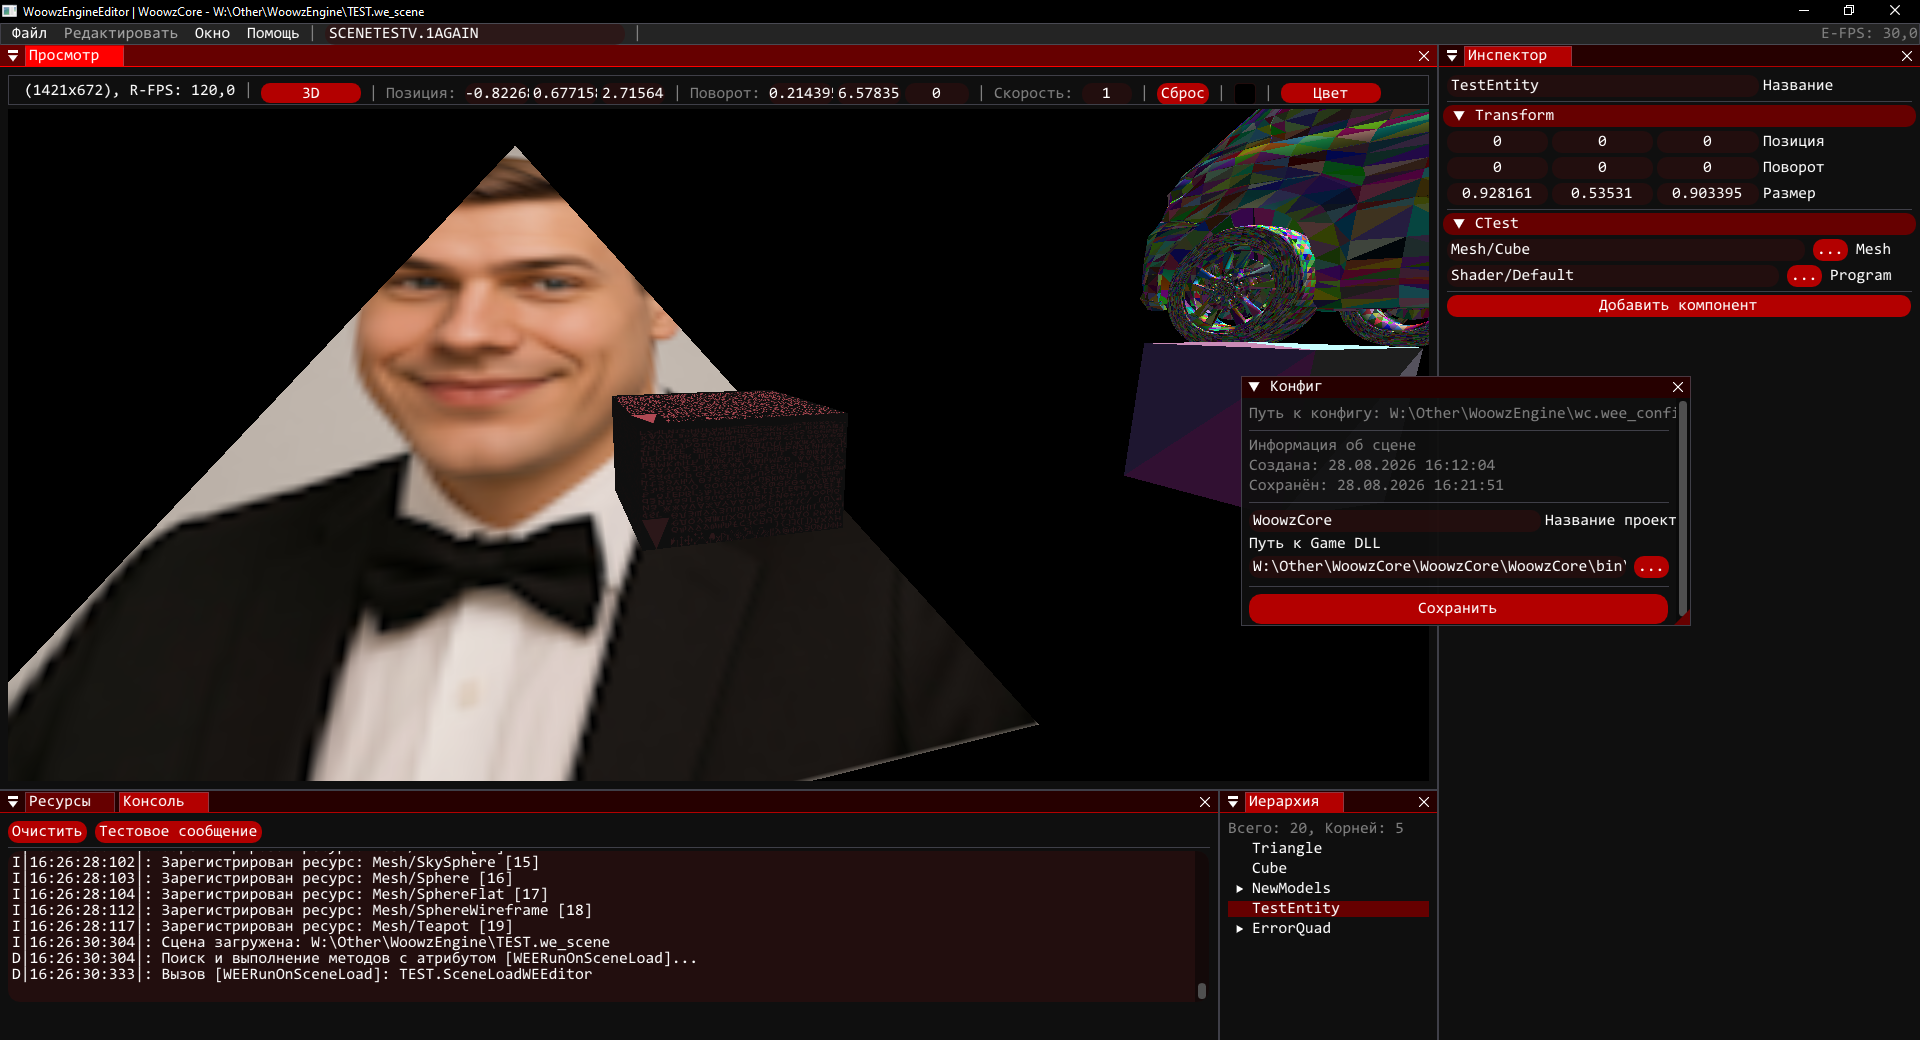
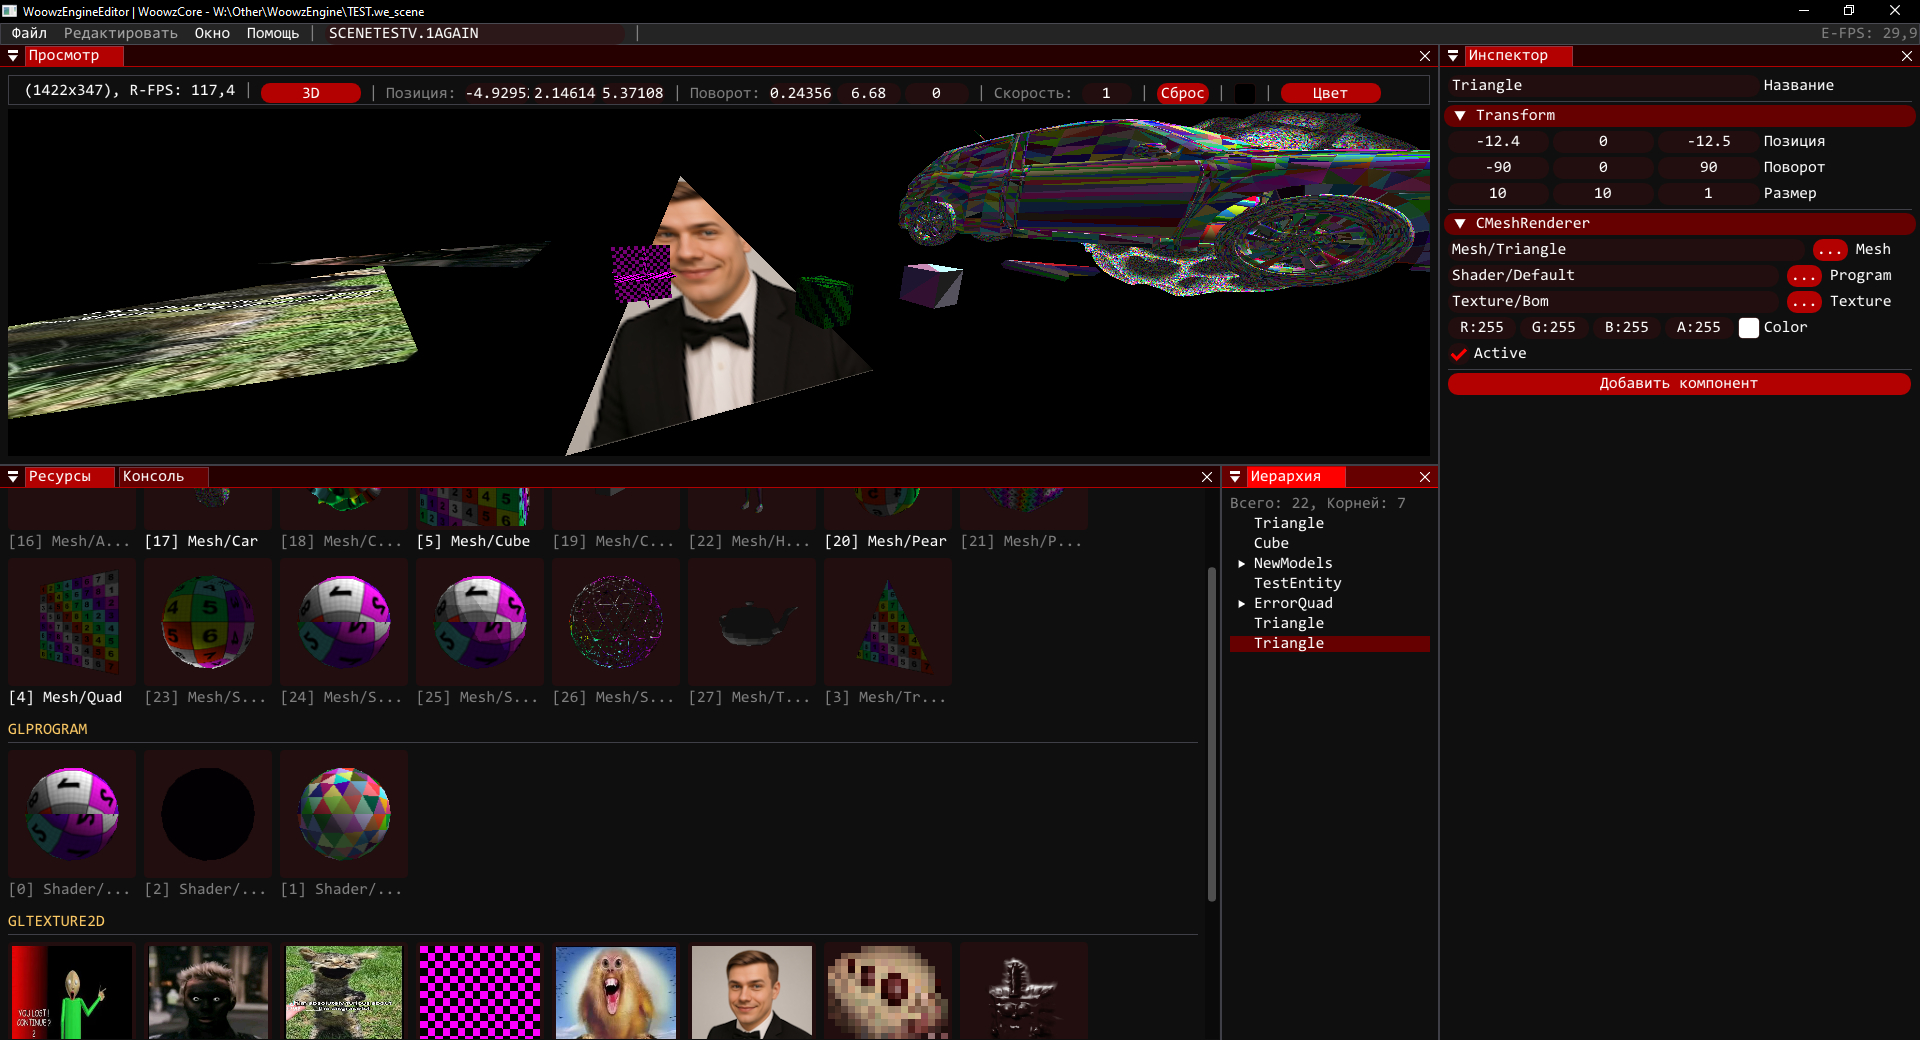
Это имба, рендер иконок 💈

diff --git a/WoowzEngine/WoowzEngineEditor/WEE/Interface/I_Assets.cs b/WoowzEngine/WoowzEngineEditor/WEE/Interface/I_Assets.cs
@@ -1,6 +1,10 @@
 using System.Numerics;
 using System.Runtime.InteropServices;
 using ImGuiNET;
+using WLO;
+using WLO.GPU;
+using WLO.Math;
+using WLO.Render;
 
 namespace WEE_Interface;
 
@@ -29,7 +33,7 @@ public static class I_Assets{
                         const float IconSize = 128;
                         float Padding = ImGui.GetStyle().ItemSpacing.X;
 
-                        float windowVisibleRightEdge = ImGui.GetCursorScreenPos().X + ImGui.GetContentRegionAvail().X;
+                        float WindowVisibleRightEdge = ImGui.GetCursorScreenPos().X + ImGui.GetContentRegionAvail().X;
 
                         for(int i = 0; i < Keys.Count; i++){
                             string Key = Keys[i];
@@ -39,31 +43,35 @@ public static class I_Assets{
 
                                 ImGui.BeginGroup();
                                     Vector2 CursorPosition = ImGui.GetCursorScreenPos();
-                                    ImGui.InvisibleButton("##btn", new Vector2(IconSize, IconSize));
+
+                                    bool IsVisible = ImGui.IsRectVisible(new Vector2(IconSize, IconSize));
+                                    ImGui.InvisibleButton("##button", new Vector2(IconSize, IconSize));
 
                                     if(ImGui.BeginDragDropSource()){
                                         IntPtr Ptr = Marshal.StringToHGlobalAnsi(Key);
                                         ImGui.SetDragDropPayload("ASSET_KEY", Ptr, (uint)Key.Length + 1);
                                         Marshal.FreeHGlobal(Ptr);
-                                        
+                                    
                                         ImGui.Text($"Перетаскивание ассета: {Key}");
                                         ImGui.EndDragDropSource();
                                     }
-                                    
+                                
                                     bool IsHovered = ImGui.IsItemHovered();
-                                    bool IsActive = ImGui.IsItemActive();
-
+                                    bool IsActive  = ImGui.IsItemActive();
+                                    
                                     uint Column = ImGui.GetColorU32(IsActive ? ImGuiCol.HeaderActive : IsHovered ? ImGuiCol.HeaderHovered : ImGuiCol.FrameBg);
 
                                     ImGui.GetWindowDrawList().AddRectFilled(CursorPosition, new Vector2(CursorPosition.X + IconSize, CursorPosition.Y + IconSize), Column, 4.0f);
 
+                                    RenderPreview(Key, CursorPosition, IconSize, IsVisible, ID);
+                                    
                                     WEE.Interface.RenderTextScrolling($"[{ID}] {Key}", IconSize, IsHovered);
                                 ImGui.EndGroup();
 
                                 float CurrentItemRightEdge = ImGui.GetItemRectMax().X;
                                 float NextItemRightEdge = CurrentItemRightEdge + Padding + IconSize;
 
-                                if(i + 1 < Keys.Count && NextItemRightEdge < windowVisibleRightEdge){
+                                if(i + 1 < Keys.Count && NextItemRightEdge < WindowVisibleRightEdge){
                                     ImGui.SameLine();
                                 }
 
@@ -76,5 +84,137 @@ public static class I_Assets{
                 }
             }
         } ImGui.End();
+
+        __PreviewRotation += WEE.Cycle.Render_DT / 2;
+    }
+
+    private static readonly Dictionary<int, GLTexture2D> __PreviewTextures = [];
+    private static          GLView?                      __SharedPreviewView;
+    private static          float                        __PreviewRotation = 0;
+
+    private static void RenderAsset(object Asset){
+        Matrix4F View = Matrix4F.CreateLookAt(new Vector3F(0, 0, 5), new Vector3F(0, 0, 0), new Vector3F(0, 1, 0));
+        Matrix4F Projection = Matrix4F.CreatePerspective(45, 1, 0.1f, 100);
+        
+        WEE.Render.UB_Default.Update(new WEE.Render.UniformBlock_Default {
+            ViewProjection = Projection * View,
+            Time = (float)ImGui.GetTime()
+        });
+        
+        WE.Render.API.Pool.SetUniformBlock(WEE.Render.UB_Default, 0, true);
+
+        Matrix4F CalculateModel(GLMesh Mesh){
+            Bounds Bounds = Mesh.Bounds;
+            
+            Matrix4F Translation = Matrix4F.CreateTranslation(-Bounds.Center);
+
+            float MaxDimension = System.Math.Max(Bounds.Size.X, System.Math.Max(Bounds.Size.Y, Bounds.Size.Z));
+            float ScaleFactor = (MaxDimension > 0.0001f) ? (4 / MaxDimension) : 1;
+            Matrix4F Scale = Matrix4F.CreateScale(new Vector3F(ScaleFactor, ScaleFactor, ScaleFactor));
+
+            Matrix4F Rotation = Matrix4F.CreateRotationY(__PreviewRotation);
+
+            return Rotation * Scale * Translation;
+        }
+        
+        GLTexture2D? TestTexture = WE.Asset.Resolve<GLTexture2D>(WE.Asset.GetID("Texture/Test"));
+        WE.Render.API.Pool.SetTexture2D(TestTexture);
+        
+        if(Asset is GLMesh Mesh){
+            GLProgram? TestProgram = WE.Asset.Resolve<GLProgram>(WE.Asset.GetID("Shader/Default"));
+            if(TestProgram != null){
+                TestProgram.SetUniform(UniformValue.CreateM4F(0, CalculateModel(Mesh)));
+                TestProgram.SetUniform(UniformValue.CreateV3F(1, new Vector3F(1, 1, 1)));
+                WE.Render.API.Draw(Mesh, TestProgram);
+            }
+        }else if(Asset is GLProgram Program){
+            GLMesh? TestMesh = WE.Asset.Resolve<GLMesh>(WE.Asset.GetID("Mesh/Sphere"));
+            if(TestMesh != null){
+                Program.SetUniform(UniformValue.CreateM4F(0, CalculateModel(TestMesh)));
+                Program.SetUniform(UniformValue.CreateV3F(1, new Vector3F(1, 1, 1)));
+                WE.Render.API.Draw(TestMesh, Program);
+            }
+        }
+    }
+    
+    private static void UpdateAssetPreview(object Asset, int ID){
+        const int Size = 128;
+
+        if(!__PreviewTextures.TryGetValue(ID, out GLTexture2D? Texture)){
+            Texture = WE.Render.API.CreateTexture2D(new Vector2I(Size, Size));
+            __PreviewTextures[ID] = Texture;
+        }
+
+        if(__SharedPreviewView == null){
+            __SharedPreviewView = GLView.Create(WE.Render.API, new Vector2I(Size, Size),
+                GLView.LayerConfig.Color(),
+                GLView.LayerConfig.Depth()
+            );
+        }
+
+        GLView OldView = WE.Render.API.Pool.GetView();
+        WE.Render.API.Pool.SetView(__SharedPreviewView);
+
+        __SharedPreviewView.SetTexture(Texture);
+        
+        WE.Render.API.FrameStart();
+        
+            WE.Render.API.Clear(Color4B.Transparent);
+
+            bool OldDepthTest = WE.Render.API.Pool.GetDepthTest();
+            bool OldScissor   = WE.Render.API.Pool.GetScissorTest();
+            bool OldCullFace  = WE.Render.API.Pool.GetCullFace();
+            
+            WE.Render.API.Pool.SetDepthTest(true);
+            WE.Render.API.Pool.SetScissorTest(false);
+            WE.Render.API.Pool.SetCullFace(false);
+            
+            RenderAsset(Asset);
+            
+            WE.Render.API.Pool.SetDepthTest(OldDepthTest);
+            WE.Render.API.Pool.SetScissorTest(OldScissor);
+            WE.Render.API.Pool.SetCullFace(OldCullFace);
+            
+        WE.Render.API.FrameStop();
+        
+        WE.Render.API.Pool.SetView(OldView);
+    }
+    
+    private static void RenderPreview(string Key, Vector2 CursorPosition, float IconSize, bool IsVisible, int ID){
+        if(!IsVisible){ return; }
+
+        ImDrawListPtr DrawList = ImGui.GetWindowDrawList();
+
+        object? Asset = WE.Asset.Resolve<object>(ID);
+
+        const float Margin = 4;
+        Vector2 PMix = CursorPosition + new Vector2(Margin);
+        Vector2 PMax = CursorPosition + new Vector2(IconSize - Margin);
+        
+        if(Asset is GLTexture2D Texture){
+            DrawList.AddImage(
+                (IntPtr)Texture.ID,
+                PMix,
+                PMax,
+                new Vector2(0, 1),
+                new Vector2(1, 0)
+            );
+        }else if(Asset is GLMesh || Asset is GLProgram){
+            UpdateAssetPreview(Asset, ID);
+
+            if(__PreviewTextures.TryGetValue(ID, out GLTexture2D? PreviewTexture)){
+                DrawList.AddImage(
+                    (IntPtr)PreviewTexture.ID,
+                    PMix,
+                    PMax,
+                    new Vector2(0, 1),
+                    new Vector2(1, 0)
+                );
+            }
+        }else{
+            string Label = Asset?.GetType().Name ?? "Null";
+            Vector2 TextSize = ImGui.CalcTextSize(Label);
+            DrawList.AddText(CursorPosition + (new Vector2(IconSize) - TextSize) * 0.5f, ImGui.GetColorU32(ImGuiCol.TextDisabled), Label);
+        }
     }
 }
